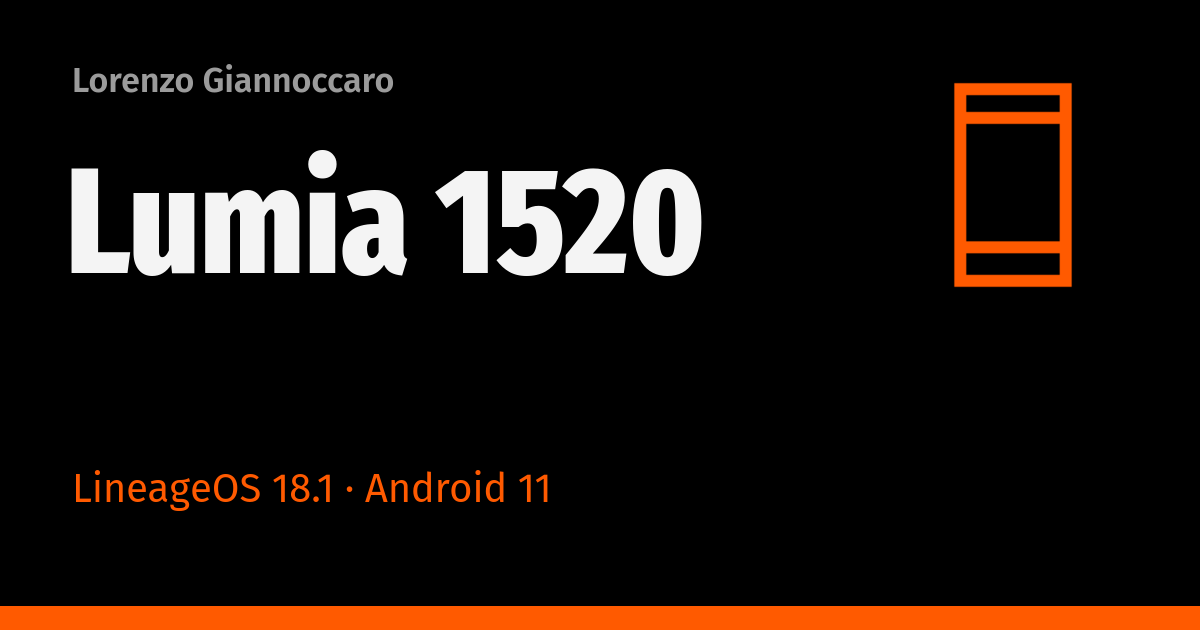
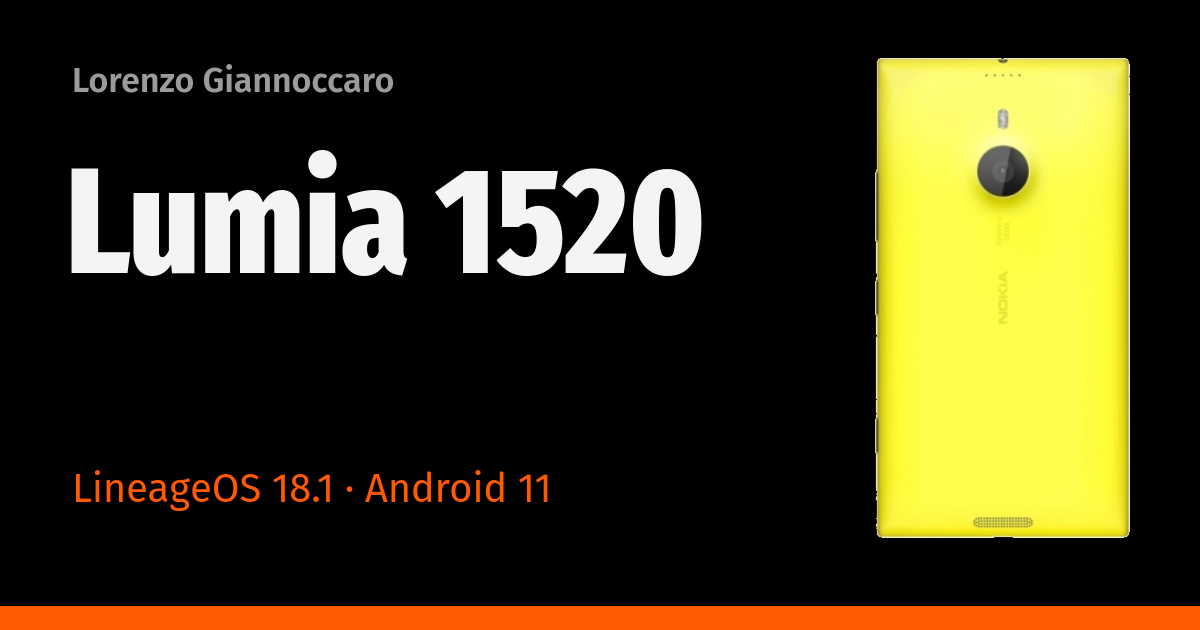
Update site (865f16f)

Changed region(s): [[0.7092, 0.0905, 0.9558, 0.8746]]

diff --git a/it/index.html b/it/index.html
@@ -25,8 +25,8 @@
   <link rel="icon" href="../assets/img/favicon.svg" type="image/svg+xml">
   <link rel="apple-touch-icon" href="../assets/img/apple-touch-icon.png">
   <link rel="preload" href="../assets/fonts/fira-sans-compressed-800.woff2" as="font" type="font/woff2" crossorigin>
-  <link rel="stylesheet" href="../assets/css/site.css?v=6e2c198">
-  <script src="../assets/js/theme.js?v=6e2c198" defer></script>
+  <link rel="stylesheet" href="../assets/css/site.css?v=865f16f">
+  <script src="../assets/js/theme.js?v=865f16f" defer></script>
   <script data-goatcounter="https://giannoccarol.goatcounter.com/count" async src="https://gc.zgo.at/count.v5.js" integrity="sha384-atnOLvQb9t+jTSipvd75X2yginT4PjVbqDdlJAmxMm+wYElFmeR6EmLP5bYeoRVQ" crossorigin="anonymous"></script>
 </head>
 <body>
@@ -80,7 +80,7 @@
           <li class="tile c-dark2 live" style="--live-delay: 5s">
             <a href="roms/lumia-1520/">
               <span class="live__faces" aria-hidden="true">
-                <span class="live__face"><span class="tile__glyph"><svg><use href="../assets/img/glyphs.svg#phone"/></svg></span></span>
+                <span class="live__face"><span class="tile__glyph tile__glyph--photo"><img src="../assets/img/phones/lumia-1520-small.webp" alt="" width="223" height="420"></span></span>
                 <span class="live__face live__face--back">
                   <span class="live__big">Android 11</span>
                   <span class="live__small">Build di prova</span>
@@ -174,24 +174,14 @@
               <span class="tile__label">Lieve<span class="visually-hidden">: editor di codice nativo per Linux e Windows, circa 110 MB di memoria</span></span>
             </a>
           </li>
-          <li class="tile tile--small c-dark">
-            <a href="https://github.com/giannoccarol/gittree/releases/tag/v1.1.0" aria-label="Scarica GitTree 1.1.0" title="Scarica GitTree" data-goatcounter-click="download-gittree">
-              <span class="tile__glyph" aria-hidden="true"><svg><use href="../assets/img/glyphs.svg#install"/></svg></span>
+          <li class="tile tile--bar c-dark">
+            <a href="https://github.com/giannoccarol/gittree/releases/tag/v1.1.0" data-goatcounter-click="download-gittree">
+              <span class="tile__bar"><svg aria-hidden="true"><use href="../assets/img/glyphs.svg#install"/></svg><span><strong>Scarica GitTree</strong><span>Versione 1.1.0</span></span></span>
             </a>
           </li>
-          <li class="tile tile--small c-dark">
-            <a href="apps/lieve/#lieve-install" aria-label="Installa Lieve" title="Installa Lieve">
-              <span class="tile__glyph" aria-hidden="true"><svg><use href="../assets/img/glyphs.svg#install"/></svg></span>
-            </a>
-          </li>
-          <li class="tile tile--small c-dark">
-            <a href="https://github.com/giannoccarol" aria-label="Tutti i miei progetti su GitHub" title="GitHub">
-              <span class="tile__glyph" aria-hidden="true"><svg><use href="../assets/img/glyphs.svg#code"/></svg></span>
-            </a>
-          </li>
-          <li class="tile tile--small c-dark2">
-            <a href="apps/" aria-label="Tutte le app desktop" title="Tutte le app desktop">
-              <span class="tile__glyph" aria-hidden="true"><svg><use href="../assets/img/glyphs.svg#grid"/></svg></span>
+          <li class="tile tile--bar c-dark">
+            <a href="apps/lieve/#lieve-install">
+              <span class="tile__bar"><svg aria-hidden="true"><use href="../assets/img/glyphs.svg#install"/></svg><span><strong>Installa Lieve</strong><span>Versione 0.1.6</span></span></span>
             </a>
           </li>
         </ul>
@@ -212,6 +202,7 @@
   <footer class="footer">
     <p>Foto dei telefoni da Wikimedia Commons, con lo sfondo rimosso: <a href="https://commons.wikimedia.org/wiki/File:Lumia_950_XL_-WMAT_Objektiv-_2018_by-RaBoe_001_038.jpg">Lumia 950 XL</a> di Ra Boe, <a href="https://creativecommons.org/licenses/by-sa/3.0/de/deed.en">CC BY-SA 3.0 DE</a>; <a href="https://commons.wikimedia.org/wiki/File:Microsoft_Nokia_Lumia_930.png">Lumia 930</a> di Lumia930uploader, <a href="https://creativecommons.org/licenses/by-sa/4.0/">CC BY-SA 4.0</a>.</p>
     <p>Testi in Fira Sans di Erik Spiekermann, Ralph du Carrois e del team Carrois, con licenza SIL Open Font License. Niente cookie: le visite sono contate in forma anonima con <a href="https://www.goatcounter.com">GoatCounter</a>.</p>
+    <p>Immagine del Lumia 1520: render promozionale Nokia.</p>
   </footer>
 </body>
 </html>

diff --git a/index.html b/index.html
@@ -25,8 +25,8 @@
   <link rel="icon" href="assets/img/favicon.svg" type="image/svg+xml">
   <link rel="apple-touch-icon" href="assets/img/apple-touch-icon.png">
   <link rel="preload" href="assets/fonts/fira-sans-compressed-800.woff2" as="font" type="font/woff2" crossorigin>
-  <link rel="stylesheet" href="assets/css/site.css?v=6e2c198">
-  <script src="assets/js/theme.js?v=6e2c198" defer></script>
+  <link rel="stylesheet" href="assets/css/site.css?v=865f16f">
+  <script src="assets/js/theme.js?v=865f16f" defer></script>
   <script data-goatcounter="https://giannoccarol.goatcounter.com/count" async src="https://gc.zgo.at/count.v5.js" integrity="sha384-atnOLvQb9t+jTSipvd75X2yginT4PjVbqDdlJAmxMm+wYElFmeR6EmLP5bYeoRVQ" crossorigin="anonymous"></script>
 </head>
 <body>
@@ -80,7 +80,7 @@
           <li class="tile c-dark2 live" style="--live-delay: 5s">
             <a href="roms/lumia-1520/">
               <span class="live__faces" aria-hidden="true">
-                <span class="live__face"><span class="tile__glyph"><svg><use href="assets/img/glyphs.svg#phone"/></svg></span></span>
+                <span class="live__face"><span class="tile__glyph tile__glyph--photo"><img src="assets/img/phones/lumia-1520-small.webp" alt="" width="223" height="420"></span></span>
                 <span class="live__face live__face--back">
                   <span class="live__big">Android 11</span>
                   <span class="live__small">Test builds</span>
@@ -174,24 +174,14 @@
               <span class="tile__label">Lieve<span class="visually-hidden">: native code editor for Linux and Windows, about 110 MB of memory</span></span>
             </a>
           </li>
-          <li class="tile tile--small c-dark">
-            <a href="https://github.com/giannoccarol/gittree/releases/tag/v1.1.0" aria-label="Download GitTree 1.1.0" title="Download GitTree" data-goatcounter-click="download-gittree">
-              <span class="tile__glyph" aria-hidden="true"><svg><use href="assets/img/glyphs.svg#install"/></svg></span>
+          <li class="tile tile--bar c-dark">
+            <a href="https://github.com/giannoccarol/gittree/releases/tag/v1.1.0" data-goatcounter-click="download-gittree">
+              <span class="tile__bar"><svg aria-hidden="true"><use href="assets/img/glyphs.svg#install"/></svg><span><strong>Download GitTree</strong><span>Version 1.1.0</span></span></span>
             </a>
           </li>
-          <li class="tile tile--small c-dark">
-            <a href="apps/lieve/#lieve-install" aria-label="Install Lieve" title="Install Lieve">
-              <span class="tile__glyph" aria-hidden="true"><svg><use href="assets/img/glyphs.svg#install"/></svg></span>
-            </a>
-          </li>
-          <li class="tile tile--small c-dark">
-            <a href="https://github.com/giannoccarol" aria-label="All my projects on GitHub" title="GitHub">
-              <span class="tile__glyph" aria-hidden="true"><svg><use href="assets/img/glyphs.svg#code"/></svg></span>
-            </a>
-          </li>
-          <li class="tile tile--small c-dark2">
-            <a href="apps/" aria-label="All desktop apps" title="All desktop apps">
-              <span class="tile__glyph" aria-hidden="true"><svg><use href="assets/img/glyphs.svg#grid"/></svg></span>
+          <li class="tile tile--bar c-dark">
+            <a href="apps/lieve/#lieve-install">
+              <span class="tile__bar"><svg aria-hidden="true"><use href="assets/img/glyphs.svg#install"/></svg><span><strong>Install Lieve</strong><span>Version 0.1.6</span></span></span>
             </a>
           </li>
         </ul>
@@ -212,6 +202,7 @@
   <footer class="footer">
     <p>Phone photos from Wikimedia Commons, backgrounds removed: <a href="https://commons.wikimedia.org/wiki/File:Lumia_950_XL_-WMAT_Objektiv-_2018_by-RaBoe_001_038.jpg">Lumia 950 XL</a> by Ra Boe, <a href="https://creativecommons.org/licenses/by-sa/3.0/de/deed.en">CC BY-SA 3.0 DE</a>; <a href="https://commons.wikimedia.org/wiki/File:Microsoft_Nokia_Lumia_930.png">Lumia 930</a> by Lumia930uploader, <a href="https://creativecommons.org/licenses/by-sa/4.0/">CC BY-SA 4.0</a>.</p>
     <p>Set in Fira Sans by Erik Spiekermann, Ralph du Carrois and the Carrois team, under the SIL Open Font License. No cookies: visits are counted anonymously with <a href="https://www.goatcounter.com">GoatCounter</a>.</p>
+    <p>Lumia 1520 image: Nokia press render.</p>
   </footer>
 </body>
 </html>

diff --git a/it/roms/index.html b/it/roms/index.html
@@ -25,8 +25,8 @@
   <link rel="icon" href="../../assets/img/favicon.svg" type="image/svg+xml">
   <link rel="apple-touch-icon" href="../../assets/img/apple-touch-icon.png">
   <link rel="preload" href="../../assets/fonts/fira-sans-compressed-800.woff2" as="font" type="font/woff2" crossorigin>
-  <link rel="stylesheet" href="../../assets/css/site.css?v=6e2c198">
-  <script src="../../assets/js/theme.js?v=6e2c198" defer></script>
+  <link rel="stylesheet" href="../../assets/css/site.css?v=865f16f">
+  <script src="../../assets/js/theme.js?v=865f16f" defer></script>
   <script data-goatcounter="https://giannoccarol.goatcounter.com/count" async src="https://gc.zgo.at/count.v5.js" integrity="sha384-atnOLvQb9t+jTSipvd75X2yginT4PjVbqDdlJAmxMm+wYElFmeR6EmLP5bYeoRVQ" crossorigin="anonymous"></script>
 </head>
 <body>
@@ -76,7 +76,7 @@
           </div>
         </li>
         <li class="phone-card">
-          <div class="app-head app-head--phone"><svg class="phone-glyph" aria-hidden="true" viewBox="0 0 48 48" fill="none" stroke="currentColor" stroke-width="2.5"><rect x="13" y="4" width="22" height="40"/><path d="M13 10h22M13 37h22"/></svg><h3 class="phone-card__name"><a href="lumia-1520/">Lumia 1520</a></h3></div>
+          <div class="app-head app-head--phone"><img src="../../assets/img/phones/lumia-1520-small.webp" alt="" width="223" height="420"><h3 class="phone-card__name"><a href="lumia-1520/">Lumia 1520</a></h3></div>
           <p class="device__meta"><span>LineageOS 18.1, Android 11</span><span class="status is-experimental">Build di prova</span></p>
           <p>Si avvia tramite BootShim e lk1st fino ad Android. Wi-Fi, dati mobili, SMS, NFC e video in hardware funzionano già; i prossimi sono il microfono in chiamata, la fotocamera e il GPS.</p>
           <div class="actions">
@@ -109,6 +109,7 @@
     <p>Foto dei telefoni da Wikimedia Commons, con lo sfondo rimosso: <a href="https://commons.wikimedia.org/wiki/File:Lumia_950_XL_-WMAT_Objektiv-_2018_by-RaBoe_001_038.jpg">Lumia 950 XL</a> di Ra Boe, <a href="https://creativecommons.org/licenses/by-sa/3.0/de/deed.en">CC BY-SA 3.0 DE</a>; <a href="https://commons.wikimedia.org/wiki/File:Microsoft_Nokia_Lumia_930.png">Lumia 930</a> di Lumia930uploader, <a href="https://creativecommons.org/licenses/by-sa/4.0/">CC BY-SA 4.0</a>.</p>
     <p>Build non ufficiali, non affiliate né approvate da LineageOS, Microsoft o Nokia.</p>
     <p>Testi in Fira Sans di Erik Spiekermann, Ralph du Carrois e del team Carrois, con licenza SIL Open Font License. Niente cookie: le visite sono contate in forma anonima con <a href="https://www.goatcounter.com">GoatCounter</a>.</p>
+    <p>Immagine del Lumia 1520: render promozionale Nokia.</p>
   </footer>
 </body>
 </html>

diff --git a/roms/index.html b/roms/index.html
@@ -25,8 +25,8 @@
   <link rel="icon" href="../assets/img/favicon.svg" type="image/svg+xml">
   <link rel="apple-touch-icon" href="../assets/img/apple-touch-icon.png">
   <link rel="preload" href="../assets/fonts/fira-sans-compressed-800.woff2" as="font" type="font/woff2" crossorigin>
-  <link rel="stylesheet" href="../assets/css/site.css?v=6e2c198">
-  <script src="../assets/js/theme.js?v=6e2c198" defer></script>
+  <link rel="stylesheet" href="../assets/css/site.css?v=865f16f">
+  <script src="../assets/js/theme.js?v=865f16f" defer></script>
   <script data-goatcounter="https://giannoccarol.goatcounter.com/count" async src="https://gc.zgo.at/count.v5.js" integrity="sha384-atnOLvQb9t+jTSipvd75X2yginT4PjVbqDdlJAmxMm+wYElFmeR6EmLP5bYeoRVQ" crossorigin="anonymous"></script>
 </head>
 <body>
@@ -76,7 +76,7 @@
           </div>
         </li>
         <li class="phone-card">
-          <div class="app-head app-head--phone"><svg class="phone-glyph" aria-hidden="true" viewBox="0 0 48 48" fill="none" stroke="currentColor" stroke-width="2.5"><rect x="13" y="4" width="22" height="40"/><path d="M13 10h22M13 37h22"/></svg><h3 class="phone-card__name"><a href="lumia-1520/">Lumia 1520</a></h3></div>
+          <div class="app-head app-head--phone"><img src="../assets/img/phones/lumia-1520-small.webp" alt="" width="223" height="420"><h3 class="phone-card__name"><a href="lumia-1520/">Lumia 1520</a></h3></div>
           <p class="device__meta"><span>LineageOS 18.1, Android 11</span><span class="status is-experimental">Test builds</span></p>
           <p>Boots through BootShim and lk1st into Android. Wi-Fi, mobile data, SMS, NFC and hardware video already work; the microphone in calls, the camera and GPS are next.</p>
           <div class="actions">
@@ -109,6 +109,7 @@
     <p>Phone photos from Wikimedia Commons, backgrounds removed: <a href="https://commons.wikimedia.org/wiki/File:Lumia_950_XL_-WMAT_Objektiv-_2018_by-RaBoe_001_038.jpg">Lumia 950 XL</a> by Ra Boe, <a href="https://creativecommons.org/licenses/by-sa/3.0/de/deed.en">CC BY-SA 3.0 DE</a>; <a href="https://commons.wikimedia.org/wiki/File:Microsoft_Nokia_Lumia_930.png">Lumia 930</a> by Lumia930uploader, <a href="https://creativecommons.org/licenses/by-sa/4.0/">CC BY-SA 4.0</a>.</p>
     <p>These are unofficial builds, not affiliated with or endorsed by LineageOS, Microsoft or Nokia.</p>
     <p>Set in Fira Sans by Erik Spiekermann, Ralph du Carrois and the Carrois team, under the SIL Open Font License. No cookies: visits are counted anonymously with <a href="https://www.goatcounter.com">GoatCounter</a>.</p>
+    <p>Lumia 1520 image: Nokia press render.</p>
   </footer>
 </body>
 </html>

diff --git a/it/roms/lumia-1520/index.html b/it/roms/lumia-1520/index.html
@@ -25,8 +25,8 @@
   <link rel="icon" href="../../../assets/img/favicon.svg" type="image/svg+xml">
   <link rel="apple-touch-icon" href="../../../assets/img/apple-touch-icon.png">
   <link rel="preload" href="../../../assets/fonts/fira-sans-compressed-800.woff2" as="font" type="font/woff2" crossorigin>
-  <link rel="stylesheet" href="../../../assets/css/site.css?v=6e2c198">
-  <script src="../../../assets/js/theme.js?v=6e2c198" defer></script>
+  <link rel="stylesheet" href="../../../assets/css/site.css?v=865f16f">
+  <script src="../../../assets/js/theme.js?v=865f16f" defer></script>
   <script data-goatcounter="https://giannoccarol.goatcounter.com/count" async src="https://gc.zgo.at/count.v5.js" integrity="sha384-atnOLvQb9t+jTSipvd75X2yginT4PjVbqDdlJAmxMm+wYElFmeR6EmLP5bYeoRVQ" crossorigin="anonymous"></script>
 </head>
 <body>
@@ -63,9 +63,12 @@
     </div>
 
     <article class="device" id="lumia-1520" aria-labelledby="bandit-title">
-      <header>
-        <h1 class="device__name" id="bandit-title">Lumia 1520</h1>
-        <p class="device__meta"><span>LineageOS 18.1, Android 11</span><span class="status is-experimental">Build di prova</span></p>
+      <header class="device-hero">
+        <div>
+          <h1 class="device__name" id="bandit-title">Lumia 1520</h1>
+          <p class="device__meta"><span>LineageOS 18.1, Android 11</span><span class="status is-experimental">Build di prova</span></p>
+        </div>
+        <img class="device-hero__photo" src="../../../assets/img/phones/lumia-1520.webp" width="270" height="508" alt="Il retro di un Lumia 1520 giallo">
       </header>
 
       <div class="prose">
@@ -130,6 +133,7 @@
   <footer class="footer">
     <p>Build non ufficiali, non affiliate né approvate da LineageOS, Microsoft o Nokia.</p>
     <p>Testi in Fira Sans di Erik Spiekermann, Ralph du Carrois e del team Carrois, con licenza SIL Open Font License. Niente cookie: le visite sono contate in forma anonima con <a href="https://www.goatcounter.com">GoatCounter</a>.</p>
+    <p>Immagine del Lumia 1520: render promozionale Nokia.</p>
   </footer>
 </body>
 </html>

diff --git a/roms/lumia-1520/index.html b/roms/lumia-1520/index.html
@@ -25,8 +25,8 @@
   <link rel="icon" href="../../assets/img/favicon.svg" type="image/svg+xml">
   <link rel="apple-touch-icon" href="../../assets/img/apple-touch-icon.png">
   <link rel="preload" href="../../assets/fonts/fira-sans-compressed-800.woff2" as="font" type="font/woff2" crossorigin>
-  <link rel="stylesheet" href="../../assets/css/site.css?v=6e2c198">
-  <script src="../../assets/js/theme.js?v=6e2c198" defer></script>
+  <link rel="stylesheet" href="../../assets/css/site.css?v=865f16f">
+  <script src="../../assets/js/theme.js?v=865f16f" defer></script>
   <script data-goatcounter="https://giannoccarol.goatcounter.com/count" async src="https://gc.zgo.at/count.v5.js" integrity="sha384-atnOLvQb9t+jTSipvd75X2yginT4PjVbqDdlJAmxMm+wYElFmeR6EmLP5bYeoRVQ" crossorigin="anonymous"></script>
 </head>
 <body>
@@ -63,9 +63,12 @@
     </div>
 
     <article class="device" id="lumia-1520" aria-labelledby="bandit-title">
-      <header>
-        <h1 class="device__name" id="bandit-title">Lumia 1520</h1>
-        <p class="device__meta"><span>LineageOS 18.1, Android 11</span><span class="status is-experimental">Test builds</span></p>
+      <header class="device-hero">
+        <div>
+          <h1 class="device__name" id="bandit-title">Lumia 1520</h1>
+          <p class="device__meta"><span>LineageOS 18.1, Android 11</span><span class="status is-experimental">Test builds</span></p>
+        </div>
+        <img class="device-hero__photo" src="../../assets/img/phones/lumia-1520.webp" width="270" height="508" alt="The back of a yellow Lumia 1520">
       </header>
 
       <div class="prose">
@@ -130,6 +133,7 @@
   <footer class="footer">
     <p>These are unofficial builds, not affiliated with or endorsed by LineageOS, Microsoft or Nokia.</p>
     <p>Set in Fira Sans by Erik Spiekermann, Ralph du Carrois and the Carrois team, under the SIL Open Font License. No cookies: visits are counted anonymously with <a href="https://www.goatcounter.com">GoatCounter</a>.</p>
+    <p>Lumia 1520 image: Nokia press render.</p>
   </footer>
 </body>
 </html>

diff --git a/it/contact/index.html b/it/contact/index.html
@@ -25,9 +25,9 @@
   <link rel="icon" href="../../assets/img/favicon.svg" type="image/svg+xml">
   <link rel="apple-touch-icon" href="../../assets/img/apple-touch-icon.png">
   <link rel="preload" href="../../assets/fonts/fira-sans-compressed-800.woff2" as="font" type="font/woff2" crossorigin>
-  <link rel="stylesheet" href="../../assets/css/site.css?v=6e2c198">
-  <script src="../../assets/js/theme.js?v=6e2c198" defer></script>
-  <script src="../../assets/js/contact.js?v=6e2c198" defer></script>
+  <link rel="stylesheet" href="../../assets/css/site.css?v=865f16f">
+  <script src="../../assets/js/theme.js?v=865f16f" defer></script>
+  <script src="../../assets/js/contact.js?v=865f16f" defer></script>
   <script data-goatcounter="https://giannoccarol.goatcounter.com/count" async src="https://gc.zgo.at/count.v5.js" integrity="sha384-atnOLvQb9t+jTSipvd75X2yginT4PjVbqDdlJAmxMm+wYElFmeR6EmLP5bYeoRVQ" crossorigin="anonymous"></script>
 </head>
 <body>

diff --git a/assets/css/site.css b/assets/css/site.css
@@ -538,6 +538,39 @@ pre code {
   grid-row: span 1;
 }
 
+/* low and wide, with words: for actions that need a name, like a download */
+.tile--bar {
+  grid-column: span 2;
+  grid-row: span 1;
+}
+
+.tile__bar {
+  position: absolute;
+  inset: 0;
+  display: flex;
+  align-items: center;
+  gap: 0.7rem;
+  padding: 0 0.8rem;
+  line-height: 1.2;
+}
+
+.tile__bar svg {
+  width: 1.9rem;
+  height: 1.9rem;
+  flex: none;
+}
+
+.tile__bar strong {
+  display: block;
+  font-size: var(--step-0);
+}
+
+.tile__bar span span {
+  display: block;
+  font-size: var(--step--1);
+  opacity: 0.8;
+}
+
 .tile > a {
   position: absolute;
   inset: 0;
@@ -918,16 +951,9 @@ pre code {
   width: 3rem;
 }
 
-.app-head--phone img,
-.app-head--phone .phone-glyph {
+.app-head--phone img {
   width: auto;
   height: 4.5rem;
-}
-
-.app-head--phone .phone-glyph {
-  width: 2.4rem;
-  color: var(--muted);
-  flex: none;
 }
 
 .device-hero {

diff --git a/contact/index.html b/contact/index.html
@@ -25,9 +25,9 @@
   <link rel="icon" href="../assets/img/favicon.svg" type="image/svg+xml">
   <link rel="apple-touch-icon" href="../assets/img/apple-touch-icon.png">
   <link rel="preload" href="../assets/fonts/fira-sans-compressed-800.woff2" as="font" type="font/woff2" crossorigin>
-  <link rel="stylesheet" href="../assets/css/site.css?v=6e2c198">
-  <script src="../assets/js/theme.js?v=6e2c198" defer></script>
-  <script src="../assets/js/contact.js?v=6e2c198" defer></script>
+  <link rel="stylesheet" href="../assets/css/site.css?v=865f16f">
+  <script src="../assets/js/theme.js?v=865f16f" defer></script>
+  <script src="../assets/js/contact.js?v=865f16f" defer></script>
   <script data-goatcounter="https://giannoccarol.goatcounter.com/count" async src="https://gc.zgo.at/count.v5.js" integrity="sha384-atnOLvQb9t+jTSipvd75X2yginT4PjVbqDdlJAmxMm+wYElFmeR6EmLP5bYeoRVQ" crossorigin="anonymous"></script>
 </head>
 <body>

diff --git a/it/apps/gittree/index.html b/it/apps/gittree/index.html
@@ -25,8 +25,8 @@
   <link rel="icon" href="../../../assets/img/favicon.svg" type="image/svg+xml">
   <link rel="apple-touch-icon" href="../../../assets/img/apple-touch-icon.png">
   <link rel="preload" href="../../../assets/fonts/fira-sans-compressed-800.woff2" as="font" type="font/woff2" crossorigin>
-  <link rel="stylesheet" href="../../../assets/css/site.css?v=6e2c198">
-  <script src="../../../assets/js/theme.js?v=6e2c198" defer></script>
+  <link rel="stylesheet" href="../../../assets/css/site.css?v=865f16f">
+  <script src="../../../assets/js/theme.js?v=865f16f" defer></script>
   <script data-goatcounter="https://giannoccarol.goatcounter.com/count" async src="https://gc.zgo.at/count.v5.js" integrity="sha384-atnOLvQb9t+jTSipvd75X2yginT4PjVbqDdlJAmxMm+wYElFmeR6EmLP5bYeoRVQ" crossorigin="anonymous"></script>
 </head>
 <body>

diff --git a/it/apps/lieve/index.html b/it/apps/lieve/index.html
@@ -25,8 +25,8 @@
   <link rel="icon" href="../../../assets/img/favicon.svg" type="image/svg+xml">
   <link rel="apple-touch-icon" href="../../../assets/img/apple-touch-icon.png">
   <link rel="preload" href="../../../assets/fonts/fira-sans-compressed-800.woff2" as="font" type="font/woff2" crossorigin>
-  <link rel="stylesheet" href="../../../assets/css/site.css?v=6e2c198">
-  <script src="../../../assets/js/theme.js?v=6e2c198" defer></script>
+  <link rel="stylesheet" href="../../../assets/css/site.css?v=865f16f">
+  <script src="../../../assets/js/theme.js?v=865f16f" defer></script>
   <script data-goatcounter="https://giannoccarol.goatcounter.com/count" async src="https://gc.zgo.at/count.v5.js" integrity="sha384-atnOLvQb9t+jTSipvd75X2yginT4PjVbqDdlJAmxMm+wYElFmeR6EmLP5bYeoRVQ" crossorigin="anonymous"></script>
 </head>
 <body>

diff --git a/it/roms/apps-and-tools/index.html b/it/roms/apps-and-tools/index.html
@@ -25,8 +25,8 @@
   <link rel="icon" href="../../../assets/img/favicon.svg" type="image/svg+xml">
   <link rel="apple-touch-icon" href="../../../assets/img/apple-touch-icon.png">
   <link rel="preload" href="../../../assets/fonts/fira-sans-compressed-800.woff2" as="font" type="font/woff2" crossorigin>
-  <link rel="stylesheet" href="../../../assets/css/site.css?v=6e2c198">
-  <script src="../../../assets/js/theme.js?v=6e2c198" defer></script>
+  <link rel="stylesheet" href="../../../assets/css/site.css?v=865f16f">
+  <script src="../../../assets/js/theme.js?v=865f16f" defer></script>
   <script data-goatcounter="https://giannoccarol.goatcounter.com/count" async src="https://gc.zgo.at/count.v5.js" integrity="sha384-atnOLvQb9t+jTSipvd75X2yginT4PjVbqDdlJAmxMm+wYElFmeR6EmLP5bYeoRVQ" crossorigin="anonymous"></script>
 </head>
 <body>
